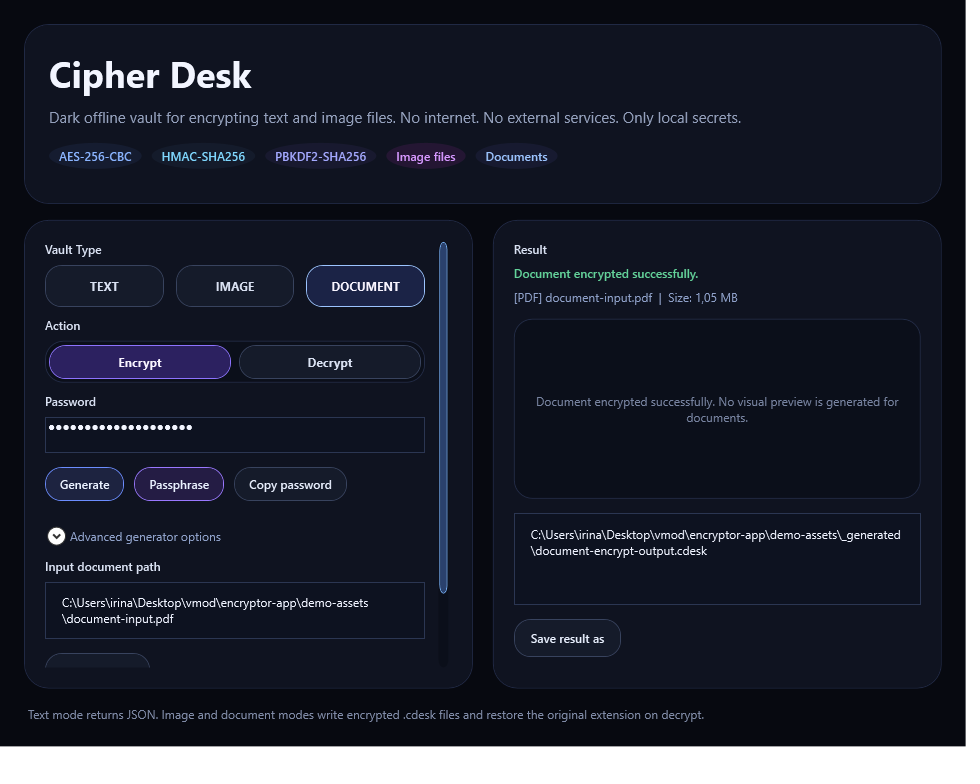
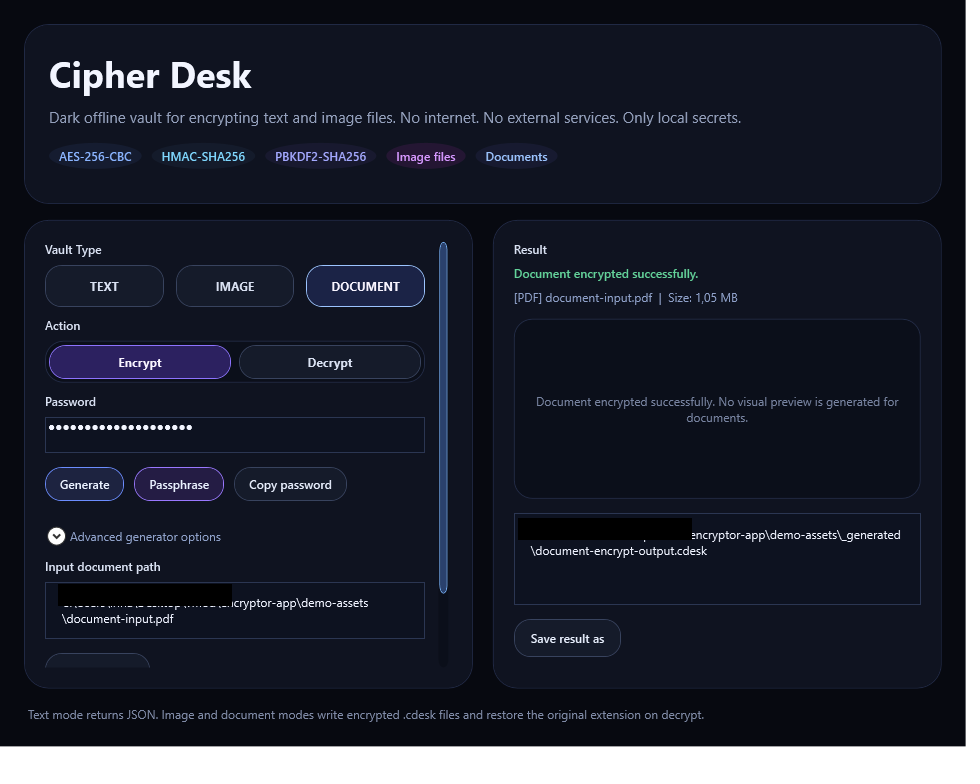
Polish README and sanitize screenshot paths

Changed region(s): [[0.5204, 0.6429, 0.7041, 0.7041], [0.0612, 0.7347, 0.2449, 0.7959]]

diff --git a/README.md b/README.md
@@ -1,209 +1,210 @@
 # Cipher Desk
 
-`Cipher Desk` — desktop-приложение для Windows для локального шифрования текста, изображений и документов.
+`Cipher Desk` is an offline Windows desktop application for local encryption of text, images, and documents.
 
-Проект работает полностью офлайн и не требует внешних сервисов.
+The project works fully offline and does not depend on external services.
 
-## Кратко
+## Overview
 
-- Версия: `0.2.3`
-- Платформа: `Windows`
+- Version: `0.2.3`
+- Platform: `Windows`
 - UI: `PowerShell + WPF`
-- Криптография: `AES-256-CBC` + `HMAC-SHA256` + `PBKDF2-SHA256`
-- Формат файлов: `.cdesk`
+- Cryptography: `AES-256-CBC` + `HMAC-SHA256` + `PBKDF2-SHA256`
+- Container format: `.cdesk`
 
-## Что умеет
+## Features
 
-- шифровать текст в `JSON`
-- шифровать изображения в `.cdesk`
-- шифровать документы в `.cdesk`
-- восстанавливать исходное расширение файлов при расшифровке
-- показывать предпросмотр изображений
-- открывать расшифрованный документ и его папку
-- генерировать случайный пароль прямо в приложении
-- генерировать passphrase из нескольких слов
-- копировать пароль в буфер обмена
-- настраивать длину пароля и наборы символов
-- собирать portable-версию через отдельный скрипт
+- encrypt text into `JSON`
+- encrypt images into `.cdesk`
+- encrypt documents into `.cdesk`
+- restore the original file extension during decryption
+- preview images in the UI
+- open a decrypted document and show it in its folder
+- generate a random password directly in the application
+- generate a passphrase from multiple words
+- copy the current password to the clipboard
+- configure password length and character groups
+- build a portable release with a dedicated script
 
-## Генерация Паролей
+## Password Generation
 
-В приложении есть встроенный генератор паролей под полем `Password`.
+The application includes a built-in password generator below the `Password` field.
 
-Доступно:
+Available actions:
 
-- `Generate` — случайный пароль
-- `Passphrase` — парольная фраза из слов
-- `Copy password` — копирование текущего пароля
-- выбор длины: `12`, `16`, `20`, `24`, `32`
-- переключатели групп символов: `A-Z`, `a-z`, `0-9`, `!@#`
+- `Generate` for a random password
+- `Passphrase` for a multi-word passphrase
+- `Copy password` to copy the current value
+- length presets: `12`, `16`, `20`, `24`, `32`
+- character group toggles: `A-Z`, `a-z`, `0-9`, `!@#`
 
-Это позволяет быстро создавать сильный пароль прямо перед шифрованием, не переключаясь в другие программы.
+This makes it easy to create a strong password before encryption without switching to another tool.
 
-## Быстрый Старт
+## Quick Start
 
-Запуск приложения:
+Run the application with one of these entry points:
 
 - `CipherDeskLauncher.exe`
 - `Launch-CipherDesk.cmd`
 - `CipherDesk.ps1`
 
-## Сборка Portable-Версии
+## Build A Portable Release
 
-Быстрый запуск:
+Quick launch:
 
 ```cmd
 make-portable-release.cmd
 ```
 
-Через PowerShell:
+PowerShell:
 
 ```powershell
 powershell -ExecutionPolicy Bypass -File .\make-portable-release.ps1
 ```
 
-С указанием папки вывода:
+With a custom output folder:
 
 ```powershell
 powershell -ExecutionPolicy Bypass -File .\make-portable-release.ps1 -OutputRoot .\release
 ```
 
-## Проверка Официального Релиза
+## Verify An Official Release
 
-Для публичных release-артефактов можно сгенерировать архив и файл контрольных сумм:
+For public release artifacts you can generate an archive and checksum file:
 
 ```powershell
 powershell -ExecutionPolicy Bypass -File .\make-checksums.ps1
 ```
 
-Скрипт создаёт:
+The script creates:
 
-- `.zip` архив для актуальной portable-сборки
-- `SHA256SUMS.txt` с `SHA-256` для архива и `CipherDeskLauncher.exe`
+- a `.zip` archive for the current portable build
+- `SHA256SUMS.txt` with `SHA-256` hashes for the archive and `CipherDeskLauncher.exe`
 
-Проверка файла на Windows:
+Verify a file on Windows:
 
 ```powershell
 Get-FileHash .\CipherDesk-Portable-30-03-2026-0.2.3.zip -Algorithm SHA256
 ```
 
-Рекомендуемый практический подход:
+Recommended workflow:
 
-- скачивать только релизы из GitHub Releases этого репозитория
-- сверять хэш скачанного архива с `SHA256SUMS.txt`
+- download releases only from this repository's GitHub Releases page
+- compare the downloaded archive hash with `SHA256SUMS.txt`
 
-## Тестирование
+## Testing
 
-Базовая самопроверка:
+Basic self-test:
 
 ```powershell
 powershell -ExecutionPolicy Bypass -File .\CipherDesk.ps1 -SelfTest
 ```
 
-Отдельный тестовый сценарий:
+Dedicated roundtrip test:
 
 ```powershell
 powershell -ExecutionPolicy Bypass -File .\tests\test-roundtrip.ps1
 ```
 
-Ожидаемый результат:
+Expected result:
 
 ```text
 Self-test OK
 ```
 
-## Документация
+## Documentation
 
-- [SECURITY.md](SECURITY.md) — ограничения, модель угроз и рекомендации
-- [CHANGELOG.md](CHANGELOG.md) — история изменений
-- [docs/file-format.md](docs/file-format.md) — описание формата `.cdesk`
-- [docs/architecture.md](docs/architecture.md) — устройство приложения
-- [docs/releases/0.2.3.md](docs/releases/0.2.3.md) — заметки к версии `0.2.3`
-- [demo-assets/README.md](demo-assets/README.md) — demo-файлы для автоматического обновления скриншотов
+- [SECURITY.md](SECURITY.md) - limitations, threat model, and guidance
+- [CHANGELOG.md](CHANGELOG.md) - change history
+- [docs/file-format.md](docs/file-format.md) - `.cdesk` format description
+- [docs/architecture.md](docs/architecture.md) - application architecture
+- [docs/releases/0.2.3.md](docs/releases/0.2.3.md) - notes for version `0.2.3`
+- [demo-assets/README.md](demo-assets/README.md) - demo files for automated screenshot refresh
 
-## Обновление Скриншотов
+## Refresh Screenshots
 
-Скрипт может автоматически пересоздать все скриншоты README на основе файлов из `demo-assets`:
+The script can automatically recreate all README screenshots from files stored in `demo-assets`.
+Absolute local disk paths are redacted during post-processing so that only project-relative folders remain visible on the final images.
 
 ```powershell
 powershell -ExecutionPolicy Bypass -File .\make-screenshots.ps1
 ```
 
-Сценарии лежат в [screenshot-scenarios.json](screenshot-scenarios.json), а входные demo-файлы и автоматически подготовленные артефакты находятся в [demo-assets](demo-assets/README.md).
+Scenario definitions are stored in [screenshot-scenarios.json](screenshot-scenarios.json), while demo inputs and generated artifacts live in [demo-assets](demo-assets/README.md).
 
-## Скриншоты
+## Screenshots
 
-Шифрование текста:
+Text encryption:
 
-![Шифрование текста](docs/screenshots/text-encrypt.png)
+![Text encryption](docs/screenshots/text-encrypt.png)
 
-Расшифровка текста:
+Text decryption:
 
-![Расшифровка текста](docs/screenshots/text-decrypt.png)
+![Text decryption](docs/screenshots/text-decrypt.png)
 
-Шифрование изображения:
+Image encryption:
 
-![Шифрование изображения](docs/screenshots/image-encrypt.png)
+![Image encryption](docs/screenshots/image-encrypt.png)
 
-Расшифровка изображения:
+Image decryption:
 
-![Расшифровка изображения](docs/screenshots/image-decrypt.png)
+![Image decryption](docs/screenshots/image-decrypt.png)
 
-Выбор и подготовка файла изображения:
+Image file selection and preparation:
 
-![Подготовка изображения](docs/screenshots/image-workflow.png)
+![Image workflow](docs/screenshots/image-workflow.png)
 
-Шифрование документа:
+Document encryption:
 
-![Шифрование документа](docs/screenshots/document-encrypt.png)
+![Document encryption](docs/screenshots/document-encrypt.png)
 
-Расшифровка документа:
+Document decryption:
 
-![Расшифровка документа](docs/screenshots/document-decrypt.png)
+![Document decryption](docs/screenshots/document-decrypt.png)
 
-Работа с расшифрованным документом:
+Working with a decrypted document:
 
-![Работа с документом](docs/screenshots/document-workflow.png)
+![Document workflow](docs/screenshots/document-workflow.png)
 
-Ошибка расшифровки:
+Decryption error:
 
-![Ошибка расшифровки](docs/screenshots/decrypt-error.png)
+![Decryption error](docs/screenshots/decrypt-error.png)
 
-## Структура Репозитория
+## Repository Structure
 
-- `CipherDesk.ps1` — основное desktop-приложение
-- `CipherDesk.App.ps1` — внутренняя реализация окна и orchestration-слой приложения
-- `CipherDeskLauncher.cs` — исходник launcher'а
-- `CipherDeskLauncher.exe` — launcher для запуска как обычной программы
-- `Launch-CipherDesk.cmd` — простой локальный запуск
-- `make-portable-release.ps1` — полный скрипт сборки portable-версии
-- `make-portable-release.cmd` — быстрый запуск сборки
-- `make-screenshots.ps1` — автоматическое обновление скриншотов
-- `screenshot-scenarios.json` — список сценариев для автосъёмки
-- `modules/` — функциональные модули приложения
-- `tests/test-roundtrip.ps1` — тестовый сценарий
-- `docs/file-format.md` — описание формата контейнера
-- `docs/architecture.md` — краткая архитектура проекта
+- `CipherDesk.ps1` - main desktop entry point
+- `CipherDesk.App.ps1` - internal window implementation and orchestration layer
+- `CipherDeskLauncher.cs` - launcher source
+- `CipherDeskLauncher.exe` - launcher for running the app like a regular program
+- `Launch-CipherDesk.cmd` - simple local launcher
+- `make-portable-release.ps1` - full portable build script
+- `make-portable-release.cmd` - quick build entry point
+- `make-screenshots.ps1` - automated screenshot refresh
+- `screenshot-scenarios.json` - scenario list for screenshot automation
+- `modules/` - functional application modules
+- `tests/test-roundtrip.ps1` - roundtrip test scenario
+- `docs/file-format.md` - container format notes
+- `docs/architecture.md` - short project architecture overview
 
 ## Dev Tooling
 
-Служебная логика для автоматических скриншотов вынесена из публичного entrypoint в отдельный внутренний слой:
+The internal logic for automated screenshots is kept out of the public user entry point and separated into a dedicated internal layer:
 
-- [CipherDesk.ps1](CipherDesk.ps1) — обычный пользовательский запуск и self-test
-- [CipherDesk.App.ps1](CipherDesk.App.ps1) — внутренняя реализация UI и orchestration
-- [make-screenshots.ps1](make-screenshots.ps1) — orchestration для пересъёмки README-скриншотов
+- [CipherDesk.ps1](CipherDesk.ps1) - normal user launch and self-test
+- [CipherDesk.App.ps1](CipherDesk.App.ps1) - internal UI implementation and orchestration
+- [make-screenshots.ps1](make-screenshots.ps1) - orchestration for refreshing README screenshots
 
-Так основная точка входа остаётся понятной для пользователя, а технические сценарии живут отдельно от повседневного запуска приложения.
+This keeps the main entry point straightforward for users while dev-oriented scenarios stay separate from everyday application startup.
 
-## Модульная Структура
+## Modular Structure
 
-Проект дополнительно разбит на отдельные модули по ответственности:
+The project is split into dedicated modules by responsibility:
 
-- [CipherDesk.Core.ps1](modules/CipherDesk.Core.ps1) — криптография, payload, text helpers и self-test
-- [CipherDesk.Passwords.ps1](modules/CipherDesk.Passwords.ps1) — генерация случайных паролей и passphrase
-- [CipherDesk.Files.ps1](modules/CipherDesk.Files.ps1) — file dialogs и вычисление путей для `.cdesk` и restored-файлов
-- [CipherDesk.Screenshots.ps1](modules/CipherDesk.Screenshots.ps1) — служебная логика автоскриншотов
-- [CipherDesk.UiHelpers.ps1](modules/CipherDesk.UiHelpers.ps1) — status, preview, file info и UI helper-функции
-- [CipherDesk.ModeHandlers.ps1](modules/CipherDesk.ModeHandlers.ps1) — mode switching, run action и runtime-логика режимов
+- [CipherDesk.Core.ps1](modules/CipherDesk.Core.ps1) - cryptography, payload handling, text helpers, and self-test
+- [CipherDesk.Passwords.ps1](modules/CipherDesk.Passwords.ps1) - random password and passphrase generation
+- [CipherDesk.Files.ps1](modules/CipherDesk.Files.ps1) - file dialogs and path helpers for `.cdesk` and restored files
+- [CipherDesk.Screenshots.ps1](modules/CipherDesk.Screenshots.ps1) - internal screenshot automation support
+- [CipherDesk.UiHelpers.ps1](modules/CipherDesk.UiHelpers.ps1) - status, preview, file info, and UI helper functions
+- [CipherDesk.ModeHandlers.ps1](modules/CipherDesk.ModeHandlers.ps1) - mode switching, run action, and runtime mode behavior
 
-Это уменьшает размер основного app-файла и делает код проще для чтения, поддержки и дальнейшего рефакторинга.
+This keeps the app easier to read, maintain, and refactor as the project grows.
